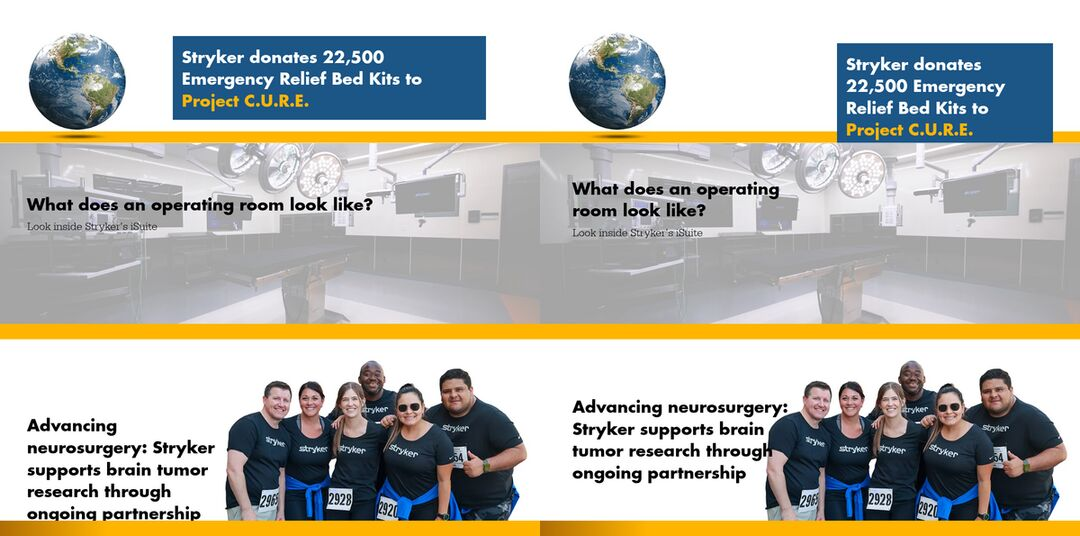
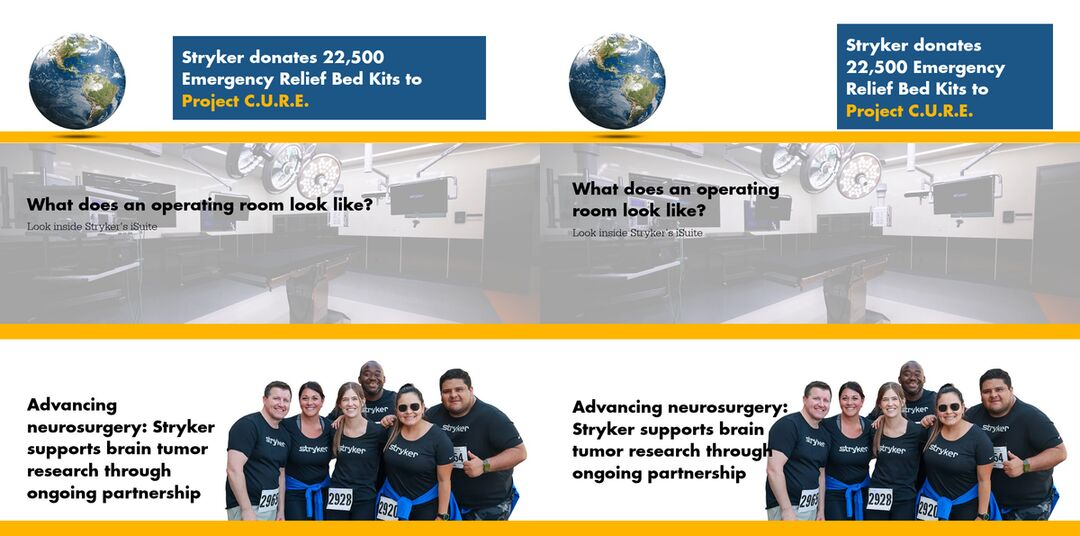
hero-corp image-slide: a headline too tall for its height stays inside the slide
With the named positions, a headline in a narrower column can wrap onto more
lines; started at its height (e.g. text-middle, 30%), it then ran past the
slide's bottom edge and over the stripe below (Project C.U.R.E.: 20px at 900,
13px at 1200). The headline's distance from the top is now a shrinkable
spacer in a full-height column: when the headline does not fit below it, it
moves up and stays inside the slide. Headlines that fit are unchanged.

Wiki page: before/after image re-taken, notes updated.

diff --git a/blocks/hero-corp/hero-corp.css b/blocks/hero-corp/hero-corp.css
@@ -471,15 +471,29 @@ body:has(main > .section:first-child .hero-corp:is(.image-slide, .large-header))
     display: none;
   }
 
-  /* the headline over the image: top-N / left-N / right-N percent of the slide */
+  /* the headline over the image, in its column (left / right inset) and starting the height's
+     distance down. The distance is a shrinkable spacer, so a headline too tall for the space
+     left below it moves up and stays inside the slide instead of running over the edge. */
   .hero-corp.image-slide > div:last-child,
   .hero-corp.image-slide:has(.hero-corp-image-mobile):not(.mobile-below) > div:last-child {
     position: absolute;
     grid-area: 1 / 1 / 2 / 2; /* row 1 only (an absolute item's auto end is the block edge) */
-    inset: var(--hero-box-top) auto auto 0;
+    inset: 0 auto 0 0;
+    display: flex;
+    flex-direction: column;
     width: calc(100% - var(--hero-box-left) - var(--hero-box-right));
     margin-left: var(--hero-box-left);
     padding: 0;
+  }
+
+  .hero-corp.image-slide > div:last-child::before {
+    content: "";
+    flex: 0 1 var(--hero-box-top);
+    min-height: 0;
+  }
+
+  .hero-corp.image-slide > div:last-child > * {
+    flex: none;
   }
 
   .hero-corp.image-slide .hero-corp-headline.box-white {

diff --git a/docs/standardisation/README.md b/docs/standardisation/README.md
@@ -123,11 +123,16 @@ stripe, phone behaviour) without remembering option names.
 
 ![Before and after: the three banners that move most](img/before-after-positions.jpg)
 
-- **Top:** the box was unusually wide; in the right column it wraps onto one more line.
+- **Top:** the box was unusually wide; in the right column it wraps onto one more line. A
+  headline that would run past the bottom of the banner now moves up so it always stays
+  inside the banner.
 - **Middle:** wide text now sits in the left column, on two lines.
-- **Bottom:** the old extra margin pushed the headline off the bottom; it now fits.
+- **Bottom:** the old extra margin pushed the headline off the bottom; it now fits. The
+  standard left column is a little wider than this banner's, so the text comes closer to
+  the photo.
 
-These are the cases to review. If wider columns are wanted, one more column choice can be added.
+These are the cases to review. If wider or narrower columns are wanted, one more column
+choice can be added.
 
 ---
 
